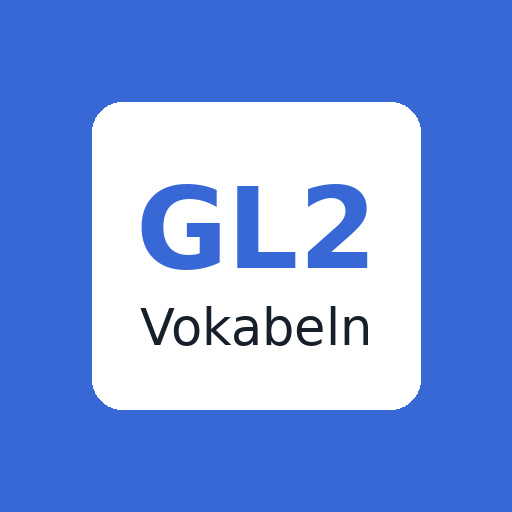
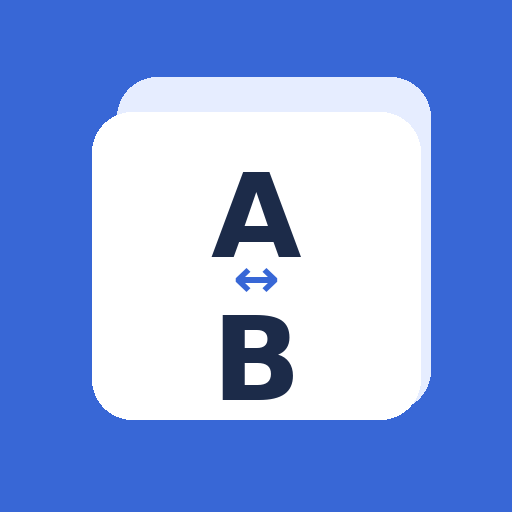
Add save last setting
Update icon
Add prompt for scans

diff --git a/index.html b/index.html
@@ -17,7 +17,7 @@
 *{box-sizing:border-box}html{min-height:100%;background:var(--bg)}
 body{margin:0;min-height:100%;background:var(--bg);color:var(--text);font:16px system-ui,-apple-system,Segoe UI,Roboto,sans-serif;-webkit-text-size-adjust:100%;overflow-anchor:none}
 .app{max-width:850px;margin:auto;padding:18px;padding-left:max(18px,env(safe-area-inset-left));padding-right:max(18px,env(safe-area-inset-right));padding-bottom:max(18px,env(safe-area-inset-bottom))}
-.top{display:flex;gap:12px;justify-content:space-between;align-items:flex-start;flex-wrap:wrap}h1{font-size:1.45rem;margin:.2rem 0}.stats{color:var(--muted);font-size:.9rem}
+.top{display:flex;gap:12px;justify-content:space-between;align-items:flex-start;flex-wrap:wrap}h1{font-size:1.45rem;margin:.2rem 0;display:flex;align-items:center;gap:8px;flex-wrap:wrap}.github-link{display:inline-flex;align-items:center;justify-content:center;width:30px;height:30px;border:1px solid var(--border);border-radius:8px;background:white;color:var(--text);text-decoration:none;transition:background .15s ease,border-color .15s ease}.github-link:hover{background:#f0f2f5;border-color:#c8ced6}.github-link svg{width:18px;height:18px;fill:currentColor}.stats{color:var(--muted);font-size:.9rem}
 .menu,.card{background:var(--card);border:1px solid var(--border);border-radius:16px;box-shadow:0 5px 20px #0000000b}.menu{margin:14px 0;overflow:hidden}.menu summary{list-style:none;cursor:pointer;padding:13px 14px;font-weight:700;display:flex;align-items:center;justify-content:space-between;gap:10px;user-select:none}.menu summary::-webkit-details-marker{display:none}.menu summary::after{content:"▾";font-size:.9rem;color:var(--muted);transition:transform .18s ease}.menu[open] summary::after{transform:rotate(180deg)}.menu-content{border-top:1px solid var(--border);padding:14px}.menu-section-title{font-size:.8rem;text-transform:uppercase;letter-spacing:.05em;color:var(--muted);font-weight:700;margin:2px 0 8px}
 .panel{padding:0;margin:0;display:flex;gap:10px;flex-wrap:wrap;align-items:flex-end}.panel label{display:flex;flex-direction:column;gap:4px;font-size:.88rem;color:var(--muted)}select,button,input{font:inherit}select,button,input[type=number]{border:1px solid var(--border);border-radius:10px;padding:9px 12px;background:white;color:var(--text)}button{cursor:pointer}button.primary{background:var(--accent);color:white;border-color:var(--accent)}button:disabled{opacity:.45;cursor:not-allowed}.page-fields{display:flex;gap:10px;flex-wrap:wrap}.page-fields input{width:100px}
 .card{padding:34px 28px;margin-top:14px;text-align:center;min-height:390px;display:flex;flex-direction:column;justify-content:center;overflow-anchor:none;contain:layout paint}.prompt-label{color:var(--muted);font-size:.9rem}.source-label{color:var(--muted);font-size:.8rem;margin-top:8px}.prompt{font-size:2.15rem;font-weight:700;margin:18px 0 24px;overflow-wrap:anywhere}.answer{width:min(620px,100%);margin:0 auto;padding:14px;border:2px solid var(--border);border-radius:12px;outline:none;text-align:center;font-size:1.25rem;scroll-margin-top:140px}.answer:focus{border-color:var(--accent)}.feedback{margin:18px auto 0;max-width:650px;text-align:left;padding:16px;border-radius:12px}.feedback.ok{background:#eaf8f0;border:1px solid #bfe7ce}.feedback.bad{background:#fff0ee;border:1px solid #f0c0ba}.correct{font-size:1.25rem;font-weight:700;color:var(--ok);word-break:break-word}.wrong{font-size:1.1rem;font-weight:700;color:var(--bad);word-break:break-word}.context{margin-top:10px;color:#4c5661;font-style:italic}.actions{display:flex;justify-content:center;gap:10px;margin-top:20px;flex-wrap:wrap}.progress{height:8px;background:#e7ebef;border-radius:99px;overflow:hidden;margin-top:12px}.bar{height:100%;background:var(--accent);width:0}.hidden{display:none!important}.small{font-size:.85rem;color:var(--muted)}.unit-badge{display:inline-block;margin-left:8px;padding:4px 8px;border-radius:999px;background:#eef2ff;color:#3346a3;font-size:.78rem;font-weight:600;vertical-align:middle}.data-actions{display:flex;gap:8px;flex-wrap:wrap;margin-top:14px;padding-top:14px;border-top:1px solid var(--border)}.file-input{display:none}.hint{margin:4px 0 0;color:var(--muted);font-size:.8rem}.error{padding:14px;border:1px solid #f0c0ba;background:#fff0ee;border-radius:12px;color:#8f2d22}
@@ -27,7 +27,7 @@ body{margin:0;min-height:100%;background:var(--bg);color:var(--text);font:16px s
 </head>
 <body>
 <div class="app">
-  <div class="top"><div><h1>Vokabeltrainer <span class="unit-badge" id="selectionBadge">Lädt …</span></h1><div class="stats" id="stats"></div><div class="hint" id="bookHint"></div></div></div>
+  <div class="top"><div><h1>Vokabeltrainer <a class="github-link" href="https://github.com/chuckmoritzgg/vokabeltrainer/" target="_blank" rel="noopener noreferrer" aria-label="Vokabeltrainer auf GitHub öffnen" title="Auf GitHub öffnen"><svg viewBox="0 0 16 16" aria-hidden="true"><path d="M8 0C3.58 0 0 3.58 0 8a8 8 0 0 0 5.47 7.59c.4.07.55-.17.55-.38 0-.19-.01-.82-.01-1.49-2.01.37-2.53-.49-2.69-.94-.09-.23-.48-.94-.82-1.13-.28-.15-.68-.52-.01-.53.63-.01 1.08.58 1.23.82.72 1.21 1.87.87 2.33.66.07-.52.28-.87.51-1.07-1.78-.2-3.64-.89-3.64-3.95 0-.87.31-1.59.82-2.15-.08-.2-.36-1.02.08-2.12 0 0 .67-.21 2.2.82a7.6 7.6 0 0 1 4 0c1.53-1.04 2.2-.82 2.2-.82.44 1.1.16 1.92.08 2.12.51.56.82 1.27.82 2.15 0 3.07-1.87 3.75-3.65 3.95.29.25.54.73.54 1.48 0 1.07-.01 1.93-.01 2.2 0 .21.15.46.55.38A8.01 8.01 0 0 0 16 8c0-4.42-3.58-8-8-8z"/></svg></a><span class="unit-badge" id="selectionBadge">Lädt …</span></h1><div class="stats" id="stats"></div><div class="hint" id="bookHint"></div></div></div>
 
   <details class="menu" id="adminMenu" open>
     <summary>Training &amp; Verwaltung</summary>
@@ -42,8 +42,8 @@ body{margin:0;min-height:100%;background:var(--bg);color:var(--text);font:16px s
           <label>Bis Seite<input id="pageTo" type="number" inputmode="numeric"></label>
         </div>
         <label>Richtung<select id="direction"><option value="de-en">Deutsch → Englisch</option><option value="en-de">Englisch → Deutsch</option></select></label>
-        <label>Auswahl<select id="scope"><option value="due">Wiederholung fällig</option><option value="all">Alle Vokabeln</option><option value="weak">Schwierige Vokabeln</option><option value="new">Noch nicht gelernt</option></select></label>
-        <label>Neue Karten<select id="newLimit"><option>10</option><option>20</option><option>30</option><option>50</option><option value="9999">Alle</option></select></label>
+        <label>Auswahl<select id="scope"><option value="all">Alle Vokabeln</option><option value="due">Wiederholung fällig</option><option value="weak">Schwierige Vokabeln</option><option value="new">Noch nicht gelernt</option></select></label>
+        <label>Karten pro Training<select id="cardLimit"><option value="all">Alle</option><option value="20">20</option><option value="30">30</option><option value="50">50</option><option value="75">75</option><option value="100">100</option></select></label>
         <button class="primary" id="startBtn">Training starten</button>
       </div>
       <div class="data-actions">
@@ -52,7 +52,7 @@ body{margin:0;min-height:100%;background:var(--bg);color:var(--text);font:16px s
         <input id="importFile" class="file-input" type="file" accept="application/json,.json">
         <button id="resetBtn">Fortschritt zurücksetzen</button>
       </div>
-      <p class="hint">Die Vokabeldaten werden getrennt aus JSON-Dateien geladen. Dadurch können später weitere Units und Bücher ergänzt werden, ohne sie in den HTML-Code einzubauen.</p>
+      
     </div>
   </details>
 
@@ -69,28 +69,35 @@ body{margin:0;min-height:100%;background:var(--bg);color:var(--text);font:16px s
   </div>
 </div>
 <script>
-const STORAGE_KEY="vokabeltrainer_progress_v4";
-const SCHEMA_VERSION=4;
+const STORAGE_KEY="vokabeltrainer_progress_v5";
+const SETTINGS_COOKIE="vokabeltrainer_settings_v1";
+const SCHEMA_VERSION=5;
 let manifest=[], bookCache=new Map(), currentBook=null, queue=[], pos=0, current=null, answered=false;
 let store=loadStore();
 const $=id=>document.getElementById(id);
 
 function safeParse(s){try{return JSON.parse(s)}catch{return null}}
-function emptyStore(){return {schemaVersion:SCHEMA_VERSION,active:{book:null,mode:"unit",unit:null,pageFrom:null,pageTo:null,direction:"de-en",scope:"due",newLimit:20},progress:{}}}
+function readSettingsCookie(){const row=document.cookie.split("; ").find(x=>x.startsWith(SETTINGS_COOKIE+"="));if(!row)return null;try{return JSON.parse(decodeURIComponent(row.slice(SETTINGS_COOKIE.length+1)))}catch{return null}}
+function writeSettingsCookie(active){const secure=location.protocol==="https:"?"; Secure":"";document.cookie=`${SETTINGS_COOKIE}=${encodeURIComponent(JSON.stringify(active))}; Max-Age=31536000; Path=/; SameSite=Lax${secure}`;}
+function emptyStore(){return {schemaVersion:SCHEMA_VERSION,active:{book:null,mode:"unit",unit:null,pageFrom:null,pageTo:null,direction:"de-en",scope:"all",cardLimit:"all"},progress:{}}}
+function migrateActive(a={}){return {...emptyStore().active,...a,scope:a.scope||"all",cardLimit:a.cardLimit??(a.newLimit&&a.newLimit>=20?String(a.newLimit):"all")};}
 function loadStore(){
-  const now=safeParse(localStorage.getItem(STORAGE_KEY)); if(now?.schemaVersion===SCHEMA_VERSION)return now;
+  const now=safeParse(localStorage.getItem(STORAGE_KEY)); if(now?.schemaVersion===SCHEMA_VERSION){now.active={...migrateActive(now.active),...(readSettingsCookie()||{})};return now;}
   const out=emptyStore();
+  const v4=safeParse(localStorage.getItem("vokabeltrainer_progress_v4"));
   const v3=safeParse(localStorage.getItem("vokabeltrainer_progress_v3"));
-  if(v3?.progress){out.progress=v3.progress;out.active={...out.active,...v3.active};}
+  const legacy=v4?.progress?v4:v3?.progress?v3:null;
+  if(legacy){out.progress=legacy.progress;out.active=migrateActive(legacy.active);}
   else {
     const v2=safeParse(localStorage.getItem("vokabeltrainer_units_v2"));
     if(v2?.progress){out.progress["green-line-2-kl6"]={};for(const u of ["unit1","unit2"])if(v2.progress[u])out.progress["green-line-2-kl6"][u]=v2.progress[u];}
     const v1=safeParse(localStorage.getItem("vokabeltrainer_unit1_v1"));
     if(v1 && !out.progress?.["green-line-2-kl6"]?.unit1){out.progress["green-line-2-kl6"]??={};out.progress["green-line-2-kl6"].unit1=v1.progress||v1;}
   }
+  out.active={...out.active,...(readSettingsCookie()||{})};
   localStorage.setItem(STORAGE_KEY,JSON.stringify(out)); return out;
 }
-function saveStore(){localStorage.setItem(STORAGE_KEY,JSON.stringify(store));updateStats();}
+function saveStore(){localStorage.setItem(STORAGE_KEY,JSON.stringify(store));writeSettingsCookie(store.active);updateStats();}
 function unitMeta(id){return currentBook.units.find(u=>u.id===id)}
 function cardState(card,create=true){store.progress[currentBook.id]??={};store.progress[currentBook.id][card.unit]??={};let s=store.progress[currentBook.id][card.unit][card.id];if(!s&&create){s={correct:0,wrong:0,seen:0,due:0,streak:0,last:0};store.progress[currentBook.id][card.unit][card.id]=s;}return s||{correct:0,wrong:0,seen:0,due:0,streak:0,last:0};}
 function norm(s){return String(s??"").trim().toLocaleLowerCase("en-GB").replace(/[’‘`´]/g,"'").replace(/[“”]/g,'"').replace(/\s+/g," ");}
@@ -111,7 +118,7 @@ function populateBookUI(){
  $("unit").innerHTML="";currentBook.units.forEach(u=>{const o=document.createElement("option");o.value=u.id;o.textContent=`${u.title} (S. ${u.pages[0]}–${u.pages[1]})`;$("unit").append(o)});
  const pr=currentBook.pageRange;$("pageFrom").min=pr.min;$("pageFrom").max=pr.max;$("pageTo").min=pr.min;$("pageTo").max=pr.max;
 }
-function restoreActiveControls(){const a=store.active||{};const unit=currentBook.units.some(u=>u.id===a.unit)?a.unit:currentBook.units[0].id;$("unit").value=unit;$("selectionMode").value=a.mode||"unit";const p=unitMeta(unit).pages;$("pageFrom").value=a.pageFrom??p[0];$("pageTo").value=a.pageTo??p[1];$("direction").value=a.direction||"de-en";$("scope").value=a.scope||"due";$("newLimit").value=String(a.newLimit||20);}
+function restoreActiveControls(){const a=store.active||{};const unit=currentBook.units.some(u=>u.id===a.unit)?a.unit:currentBook.units[0].id;$("unit").value=unit;$("selectionMode").value=a.mode||"unit";const p=unitMeta(unit).pages;const min=currentBook.pageRange.min,max=currentBook.pageRange.max;const from=Number.isFinite(+a.pageFrom)?Math.min(max,Math.max(min,+a.pageFrom)):p[0];const to=Number.isFinite(+a.pageTo)?Math.min(max,Math.max(min,+a.pageTo)):p[1];$("pageFrom").value=from;$("pageTo").value=to;$("direction").value=a.direction||"de-en";$("scope").value=["all","due","weak","new"].includes(a.scope)?a.scope:"all";$("cardLimit").value=["all","20","30","50","75","100"].includes(String(a.cardLimit))?String(a.cardLimit):"all";}
 function updateSelectionUI(){const pages=$("selectionMode").value==="pages";$("unitWrap").classList.toggle("hidden",pages);$("pageFields").classList.toggle("hidden",!pages);updateStats();}
 function selectedCards(){
  if(!currentBook)return[];
@@ -119,12 +126,12 @@ function selectedCards(){
  let a=+$("pageFrom").value,b=+$("pageTo").value;if(a>b)[a,b]=[b,a];return currentBook.cards.filter(c=>c.page>=a&&c.page<=b);
 }
 function selectionLabel(){if(!currentBook)return"";if($("selectionMode").value==="unit")return unitMeta($("unit").value)?.title||"Unit";let a=+$("pageFrom").value,b=+$("pageTo").value;if(a>b)[a,b]=[b,a];return `S. ${a}–${b}`;}
-function persistControls(){store.active={book:currentBook.id,mode:$("selectionMode").value,unit:$("unit").value,pageFrom:+$("pageFrom").value,pageTo:+$("pageTo").value,direction:$("direction").value,scope:$("scope").value,newLimit:+$("newLimit").value};saveStore();}
+function persistControls(){store.active={book:currentBook.id,mode:$("selectionMode").value,unit:$("unit").value,pageFrom:+$("pageFrom").value,pageTo:+$("pageTo").value,direction:$("direction").value,scope:$("scope").value,cardLimit:$("cardLimit").value};saveStore();}
 function updateStats(){
  if(!currentBook)return;const cards=selectedCards();let seen=0,due=0,weak=0;for(const c of cards){const s=cardState(c,false);if(s.seen)seen++;if((s.due||0)<=Date.now())due++;if(s.seen&&s.wrong>s.correct)weak++;}
  $("stats").textContent=`${cards.length} Vokabeln · ${seen} gelernt · ${due} fällig · ${weak} schwierig`;$("selectionBadge").textContent=selectionLabel();$("bookHint").textContent=currentBook.title+(currentBook.subtitle?" · "+currentBook.subtitle:"");$("resetBtn").textContent="Fortschritt für Auswahl zurücksetzen";
 }
-function chooseQueue(){const scope=$("scope").value,limit=+$("newLimit").value;let arr=selectedCards().filter(c=>{const s=cardState(c);if(scope==="all")return true;if(scope==="new")return !s.seen;if(scope==="weak")return s.seen&&s.wrong>s.correct;return (s.due||0)<=Date.now();});if(scope==="due"){const fresh=arr.filter(c=>!cardState(c).seen).slice(0,limit),old=arr.filter(c=>cardState(c).seen);arr=[...fresh,...old]}for(let i=arr.length-1;i>0;i--){const j=Math.floor(Math.random()*(i+1));[arr[i],arr[j]]=[arr[j],arr[i]]}return arr;}
+function chooseQueue(){const scope=$("scope").value,limitValue=$("cardLimit").value;let arr=selectedCards().filter(c=>{const s=cardState(c);if(scope==="all")return true;if(scope==="new")return !s.seen;if(scope==="weak")return s.seen&&s.wrong>s.correct;return (s.due||0)<=Date.now();});for(let i=arr.length-1;i>0;i--){const j=Math.floor(Math.random()*(i+1));[arr[i],arr[j]]=[arr[j],arr[i]]}if(limitValue!=="all"){const limit=Math.max(20,+limitValue||20);arr=arr.slice(0,limit);}return arr;}
 function startTraining(){persistControls();queue=chooseQueue();pos=0;answered=false;if(!queue.length){$("promptLabel").textContent="Keine passenden Vokabeln in dieser Auswahl.";$("sourceLabel").textContent="";$("prompt").textContent="✓";$("answer").disabled=true;$("checkBtn").disabled=true;$("showBtn").disabled=true;$("adminMenu").open=true;return}$("adminMenu").open=false;showCard();}
 function showCard(){current=queue[pos];answered=false;const dir=$("direction").value;$("promptLabel").textContent=dir==="de-en"?"Deutsch → Englisch":"Englisch → Deutsch";const u=unitMeta(current.unit);$("sourceLabel").textContent=`${u?.title||current.unit} · Seite ${current.page}`;$("prompt").textContent=dir==="de-en"?current.de:current.en;$("answer").value="";$("answer").disabled=false;$("feedback").className="feedback hidden";$("feedback").innerHTML="";$("checkBtn").disabled=false;$("showBtn").disabled=false;$("nextBtn").classList.add("hidden");updateProgress();setTimeout(()=>focusStable(),60);}
 function focusStable(){const y=window.scrollY;$("answer").focus({preventScroll:true});requestAnimationFrame(()=>window.scrollTo({top:y,left:0,behavior:"instant"}));}
@@ -136,12 +143,12 @@ function updateProgress(){$("bar").style.width=((pos/queue.length)*100)+"%";$("c
 function resetStudyView(){$("promptLabel").textContent="Training auswählen und starten.";$("sourceLabel").textContent="";$("prompt").textContent="Bereit?";$("answer").value="";$("answer").disabled=true;$("feedback").className="feedback hidden";$("checkBtn").disabled=true;$("showBtn").disabled=true;$("nextBtn").classList.add("hidden");$("bar").style.width="0";$("counter").textContent="";}
 function escapeHtml(s){return String(s).replace(/[&<>"']/g,ch=>({"&":"&amp;","<":"&lt;",">":"&gt;",'"':"&quot;","'":"&#39;"}[ch]))}
 function exportProgress(){persistControls();const blob=new Blob([JSON.stringify({app:"Vokabeltrainer",schemaVersion:SCHEMA_VERSION,exportedAt:new Date().toISOString(),store},null,2)],{type:"application/json"});const a=document.createElement("a");a.href=URL.createObjectURL(blob);a.download=`vokabeltrainer-fortschritt-${new Date().toISOString().slice(0,10)}.json`;a.click();setTimeout(()=>URL.revokeObjectURL(a.href),1000)}
-async function importProgress(file){try{const data=JSON.parse(await file.text());let incoming=data.store||data;if(incoming.schemaVersion===3){incoming={...emptyStore(),...incoming,schemaVersion:SCHEMA_VERSION,active:{...emptyStore().active,...incoming.active}}}if(incoming.schemaVersion!==SCHEMA_VERSION||!incoming.progress)throw new Error("Unbekanntes Dateiformat.");if(!confirm("Der gespeicherte Fortschritt auf diesem Gerät wird durch die importierte Datei ersetzt. Fortfahren?"))return;store=incoming;localStorage.setItem(STORAGE_KEY,JSON.stringify(store));const bid=manifest.some(b=>b.id===store.active?.book)?store.active.book:manifest[0].id;$("book").value=bid;currentBook=await loadBook(bid);populateBookUI();restoreActiveControls();updateSelectionUI();resetStudyView();alert("Fortschritt wurde importiert.");}catch(e){alert("Import fehlgeschlagen: "+e.message)}}
+async function importProgress(file){try{const data=JSON.parse(await file.text());let incoming=data.store||data;if(!incoming.progress)throw new Error("Unbekanntes Dateiformat.");incoming={...emptyStore(),...incoming,schemaVersion:SCHEMA_VERSION,active:migrateActive(incoming.active)};if(!confirm("Der gespeicherte Fortschritt auf diesem Gerät wird durch die importierte Datei ersetzt. Fortfahren?"))return;store=incoming;localStorage.setItem(STORAGE_KEY,JSON.stringify(store));writeSettingsCookie(store.active);const bid=manifest.some(b=>b.id===store.active?.book)?store.active.book:manifest[0].id;$("book").value=bid;currentBook=await loadBook(bid);populateBookUI();restoreActiveControls();updateSelectionUI();resetStudyView();alert("Fortschritt wurde importiert.");}catch(e){alert("Import fehlgeschlagen: "+e.message)}}
 
 $("book").addEventListener("change",async e=>{currentBook=await loadBook(e.target.value);populateBookUI();const first=currentBook.units[0];$("unit").value=first.id;$("pageFrom").value=first.pages[0];$("pageTo").value=first.pages[1];persistControls();resetStudyView();});
 $("selectionMode").addEventListener("change",()=>{updateSelectionUI();persistControls();resetStudyView()});
 $("unit").addEventListener("change",()=>{const u=unitMeta($("unit").value);$("pageFrom").value=u.pages[0];$("pageTo").value=u.pages[1];persistControls();resetStudyView()});
-for(const id of ["pageFrom","pageTo","direction","scope","newLimit"])$(id).addEventListener("change",()=>{persistControls();resetStudyView()});
+for(const id of ["pageFrom","pageTo","direction","scope","cardLimit"])$(id).addEventListener("change",()=>{persistControls();resetStudyView()});
 $("startBtn").onclick=startTraining;$("checkBtn").onclick=check;$("showBtn").onclick=()=>grade(false,true);$("nextBtn").onclick=next;
 $("answer").addEventListener("keydown",e=>{if(e.key==="Enter"){e.preventDefault();answered?next():check();}});
 $("exportBtn").onclick=exportProgress;$("importBtn").onclick=()=>$("importFile").click();$("importFile").addEventListener("change",e=>{if(e.target.files[0])importProgress(e.target.files[0]);e.target.value=""});

diff --git a/sw.js b/sw.js
@@ -1,4 +1,4 @@
-const CACHE="vokabeltrainer-pwa-v4";
+const CACHE="vokabeltrainer-pwa-v6";
 const ASSETS=["./","./index.html","./manifest.webmanifest","./icon-192.png","./icon-512.png","./data/books.json","./data/green-line-2.json"];
 self.addEventListener("install",e=>e.waitUntil(caches.open(CACHE).then(c=>c.addAll(ASSETS)).then(()=>self.skipWaiting())));
 self.addEventListener("activate",e=>e.waitUntil(caches.keys().then(keys=>Promise.all(keys.filter(k=>k!==CACHE).map(k=>caches.delete(k)))).then(()=>self.clients.claim())));

diff --git a/README.md b/README.md
@@ -1,25 +1,151 @@
 # Vokabeltrainer
 
-GitHub-Pages-fertige PWA.
+GitHub-Pages-fertige PWA für das Lernen von Englischvokabeln.
 
 ## Veröffentlicht auf GitHub Pages
+
 [chuckmoritzgg.github.io/vokabeltrainer/](https://chuckmoritzgg.github.io/vokabeltrainer/)
 
 ## Als App installieren
-Die Website ist als PWA (Progressive Web App) eingerichtet, und kann somit auf vielen Geräten wie eine normale App installiert werden. Die genaue Vorgehensweise hängt vom Gerät und Browser ab.
 
-- Android + Chrome: Website öffnen → Menü "⋮" → „App installieren“ oder „Zum Startbildschirm hinzufügen“
+Die Website ist als PWA (Progressive Web App) eingerichtet und kann auf vielen Geräten wie eine normale App installiert werden. Die genaue Vorgehensweise hängt vom Gerät und Browser ab.
+
+- Android + Chrome: Website öffnen → Menü „⋮“ → „App installieren“ oder „Zum Startbildschirm hinzufügen“
 - Android + andere Browser: Je nach Browser heißt die Funktion ähnlich, z. B. „Installieren“ oder „Zum Startbildschirm hinzufügen“.
 - iPhone/iPad + Safari: Website öffnen → Teilen → „Zum Home-Bildschirm“ → „Hinzufügen“
-- Windows + Chrome/Edge: Website öffnen → in der Adressleiste das Installieren-Symbol auswählen oder im Menü „App installieren“.
-- Mac + Chrome/Edge: Website öffnen → über das Browser-Menü „App installieren“ auswählen.
+- Windows + Chrome/Edge: Website öffnen → in der Adressleiste das Installieren-Symbol auswählen oder im Menü „App installieren“
+- Mac + Chrome/Edge: Website öffnen → über das Browser-Menü „App installieren“ auswählen
 
 Nach der Installation erscheint die Website wie eine normale App auf dem Startbildschirm, im App-Menü oder auf dem Desktop. Sie kann außerdem offline funktionieren und Inhalte zwischenspeichern.
 
-«Hinweis: Nicht jeder Browser unterstützt PWAs vollständig. Wenn keine Installationsoption angezeigt wird, kann die Website trotzdem ganz normal im Browser verwendet werden.»
+> Hinweis: Nicht jeder Browser unterstützt PWAs vollständig. Wenn keine Installationsoption angezeigt wird, kann die Website trotzdem ganz normal im Browser verwendet werden.
 
-## Fortschritt
-Der Fortschritt wird lokal pro **Buch → Unit → Vokabel** gespeichert. Das Schema ist bereits für weitere Bücher und Units vorbereitet. Mit **Fortschritt exportieren** entsteht eine JSON-Datei, die auf einem anderen Gerät über **Fortschritt importieren** eingelesen werden kann.
+## Fortschritt und Einstellungen
 
-## Neue Bücher/Units
-Die Vokabeldaten stehen in `index.html`. Neue Bücher können im Objekt `BOOKS` ergänzt werden. Jede Unit besitzt ein eigenes `cards`-Array und einen eigenen Fortschritts-Namespace.
+Der Lernfortschritt wird lokal getrennt nach **Buch → Unit → Vokabel** gespeichert. Die zuletzt verwendeten Trainingseinstellungen – insbesondere **Buch, Unit bzw. Seitenbereich, Richtung, Auswahl und Kartenanzahl** – werden ebenfalls gespeichert und beim nächsten Start wiederhergestellt.
+
+Die Web-App verwendet dafür den lokalen Browserspeicher; die zuletzt aktive Auswahl wird zusätzlich als Cookie gespeichert. Mit **Fortschritt exportieren** entsteht eine JSON-Datei, die auf einem anderen Gerät über **Fortschritt importieren** eingelesen werden kann.
+
+Bei der Kartenanzahl ist **Alle** die Standardeinstellung. Bei einer begrenzten Auswahl beträgt die kleinste mögliche Einstellung **20 Karten**.
+
+## Datenstruktur und neue Bücher/Units
+
+Die Vokabeldaten liegen getrennt von `index.html` im Ordner `data/`.
+
+`data/books.json` ist die Liste aller Bücher. Für jedes Buch gibt es eine eigene JSON-Datei mit Buchmetadaten, Units und Karten.
+
+### Eintrag in `data/books.json`
+
+Für ein neues Buch genau einen Eintrag in das Array von `data/books.json` einfügen:
+
+```json
+{
+  "id": "eindeutige-buch-id",
+  "title": "Buchtitel",
+  "subtitle": "z. B. 6. Klasse",
+  "file": "./data/eindeutige-buch-id.json"
+}
+```
+
+Die `id` muss eindeutig sein und muss mit `id` in der Buchdatei übereinstimmen. `file` zeigt auf die zugehörige JSON-Datei.
+
+### Struktur einer Buchdatei
+
+```json
+{
+  "id": "eindeutige-buch-id",
+  "title": "Buchtitel",
+  "subtitle": "z. B. 6. Klasse",
+  "pageRange": {
+    "min": 100,
+    "max": 160
+  },
+  "units": [
+    {
+      "id": "unit1",
+      "title": "Unit 1",
+      "pages": [100, 119]
+    }
+  ],
+  "cards": [
+    {
+      "id": 0,
+      "de": "Beispiel",
+      "en": "example",
+      "context": "Can you give me an example?",
+      "unit": "unit1",
+      "page": 100
+    }
+  ]
+}
+```
+
+Regeln:
+
+- `id` jeder Karte muss innerhalb des Buches eindeutig sein.
+- `unit` einer Karte muss exakt einer `units[].id` entsprechen.
+- `page` ist die gedruckte Seitenzahl im Buch.
+- `pageRange.min` und `pageRange.max` umfassen den gesamten verfügbaren Seitenbereich des Buches.
+- `units[].pages` enthält die erste und letzte Vokabelseite der Unit.
+- `context` ist der zum Eintrag gehörende Beispielsatz; wenn keiner vorhanden ist, `""` verwenden.
+- Optionale Bestandteile einer Vokabel dürfen in runden Klammern stehen, z. B. `kind (of)`. Die Web-App akzeptiert bei der Eingabe sowohl die vollständige Form als auch die Form ohne Klammerzusatz.
+
+Nach dem Hinzufügen einer neuen Buchdatei muss sie auch in `sw.js` in `ASSETS` aufgenommen werden, damit sie offline verfügbar ist.
+
+## Prompt für ein LLM: Vokabelkarten aus Scans erstellen
+
+Diesen Prompt zusammen mit den Scans der Vokabelseiten verwenden. Die Platzhalter für Buchdaten vorher ausfüllen:
+
+```text
+Du erhältst Scans der Vocabulary-Seiten eines Englischbuchs und sollst eine JSON-Datendatei für eine bestehende Vokabeltrainer-Web-App erzeugen.
+
+Buchdaten:
+- Buch-ID: <EINDEUTIGE-ID, z. B. english-book-2-kl6>
+- Titel: <BUCHTITEL>
+- Untertitel: <z. B. 6. Klasse>
+
+Extraktion:
+1. Extrahiere ausschließlich die Deutsch–Englisch-Vokabeln aus dem festen Vokabelraster der Scans. Ignoriere Übungen, Aufgaben, Schaubilder, Bilder, Zusatzboxen, Lautschrift-Übungen und sonstige Inhalte außerhalb dieses Rasters.
+2. Übernimm pro Vokabel die deutsche Bedeutung, die englische Vokabel, den zugehörigen Kontext-/Beispielsatz, die gedruckte Seitenzahl und die Unit.
+3. Korrigiere offensichtliche OCR-Fehler anhand des Scans. Achte besonders auf Apostrophe, Bindestriche, Mehrwortausdrücke und Endungen wie -ly. Erfinde nichts und ändere keine tatsächlich gedruckte Vokabel in eine andere Wortform.
+4. Wenn ein Bestandteil der Vokabel in runden Klammern steht, übernimm die Klammern exakt, z. B. "kind (of)". Diese Teile werden von der Web-App später als optional behandelt.
+5. Verwende für jede Karte innerhalb des Buches eine eindeutige fortlaufende numerische id ab 0.
+
+Die Web-App erwartet EXAKT dieses JSON-Schema:
+{
+  "id": "<Buch-ID>",
+  "title": "<Buchtitel>",
+  "subtitle": "<Untertitel>",
+  "pageRange": {"min": <kleinste gedruckte Vokabelseite>, "max": <größte gedruckte Vokabelseite>},
+  "units": [
+    {"id": "unit1", "title": "Unit 1", "pages": [<erste Vokabelseite>, <letzte Vokabelseite>]}
+  ],
+  "cards": [
+    {"id": 0, "de": "<Deutsch>", "en": "<Englisch>", "context": "<Kontextsatz oder leerer String>", "unit": "unit1", "page": <gedruckte Seitenzahl>}
+  ]
+}
+
+Zusätzlich gib NACH der Buch-JSON einen separaten Block mit genau dem Eintrag aus, den der Nutzer in data/books.json in das bestehende Array kopieren muss:
+{
+  "id": "<Buch-ID>",
+  "title": "<Buchtitel>",
+  "subtitle": "<Untertitel>",
+  "file": "./data/<Buch-ID>.json"
+}
+
+Ausgabeformat:
+- Zuerst ein Codeblock mit der vollständigen Buch-JSON.
+- Danach ein Codeblock mit genau einem books.json-Eintrag.
+- Keine weiteren Erklärungen.
+- Vor der Ausgabe intern prüfen: alle Karten haben id/de/en/context/unit/page; alle unit-Werte existieren in units; alle Seiten liegen in pageRange; Karten-IDs sind eindeutig; JSON ist syntaktisch valide.
+```
+
+## GitHub Pages
+
+1. Alle Dateien und Ordner dieses Verzeichnisses in ein GitHub-Repository hochladen.
+2. Unter **Settings → Pages** bei **Build and deployment** `Deploy from a branch` wählen.
+3. Branch `main` und Ordner `/ (root)` auswählen.
+4. Nach dem Deployment die GitHub-Pages-Adresse öffnen.
+5. Auf unterstützten Browsern kann die Seite anschließend als App installiert werden.
+
+Wichtig: Die Seite sollte über GitHub Pages/HTTPS geöffnet werden. Bei einem direkten lokalen Öffnen von `index.html` per `file://` können Browser das Laden der JSON-Dateien blockieren.
